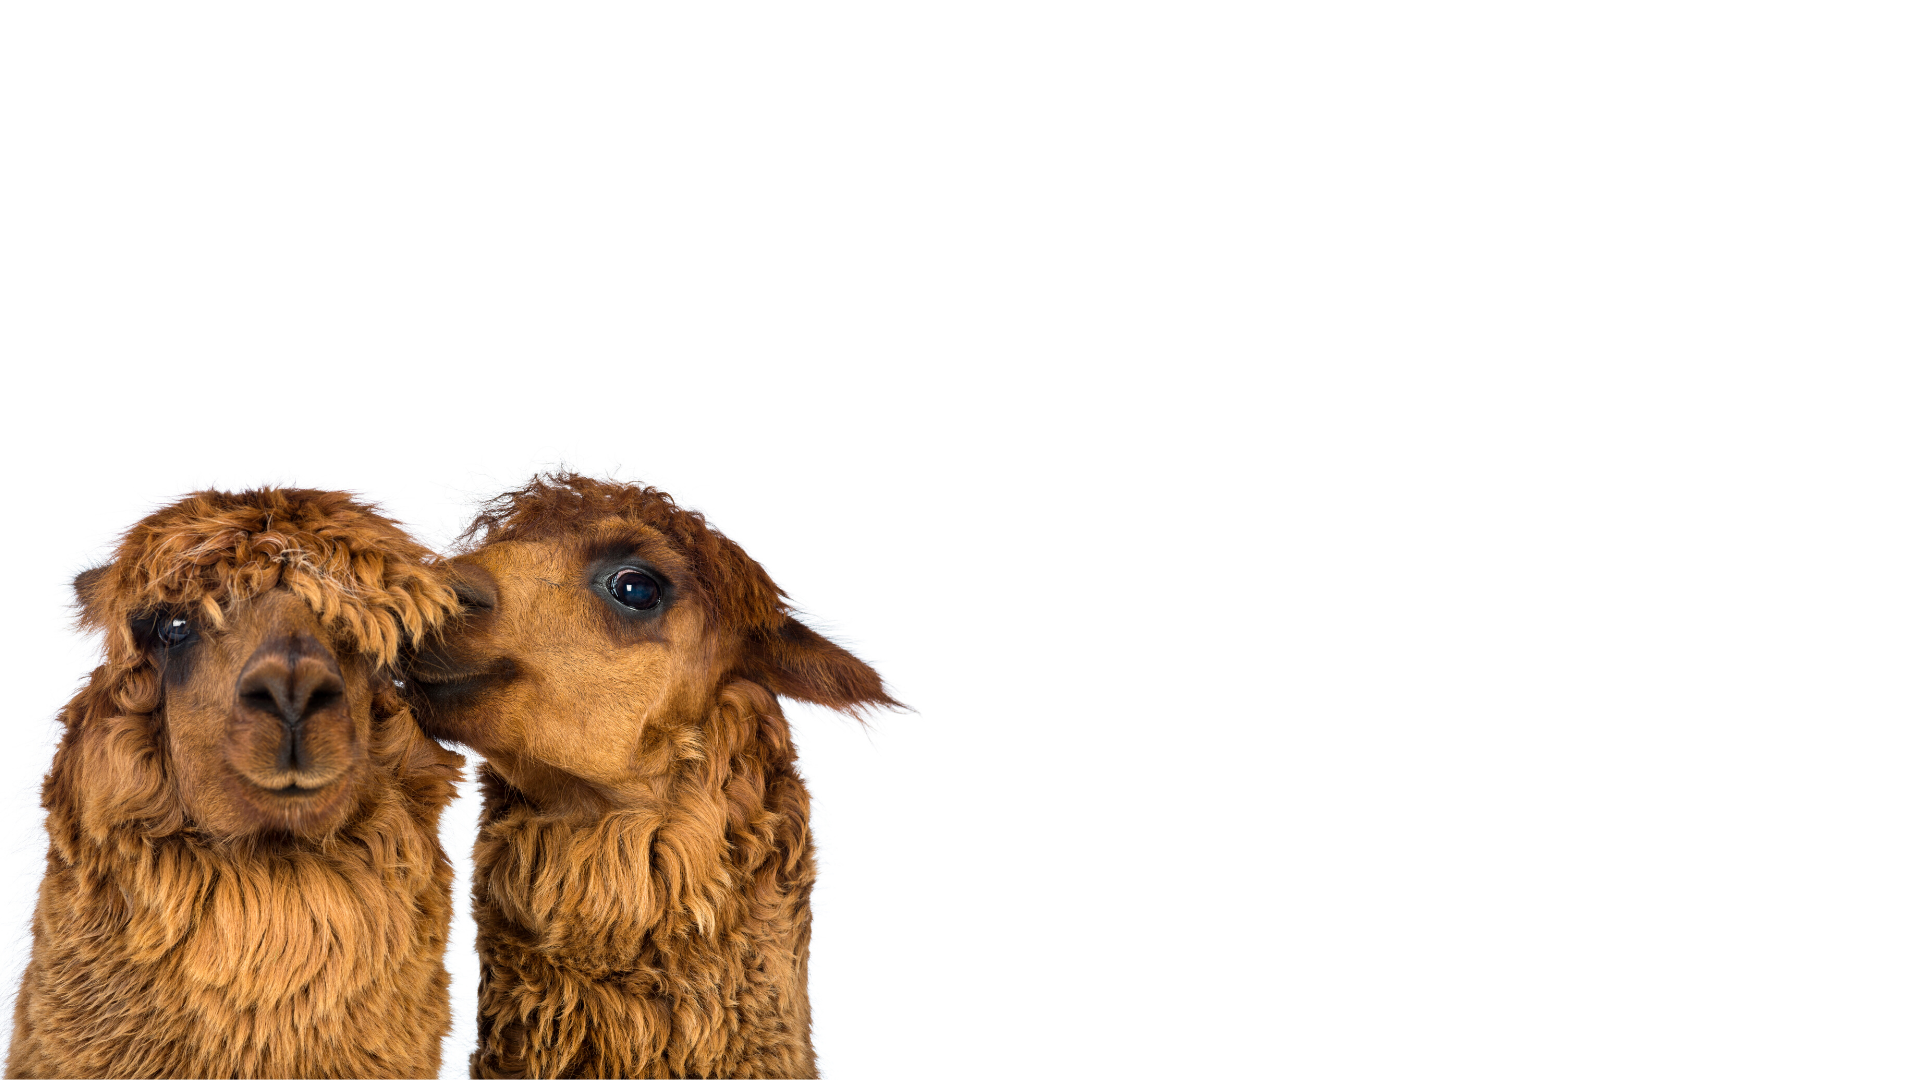
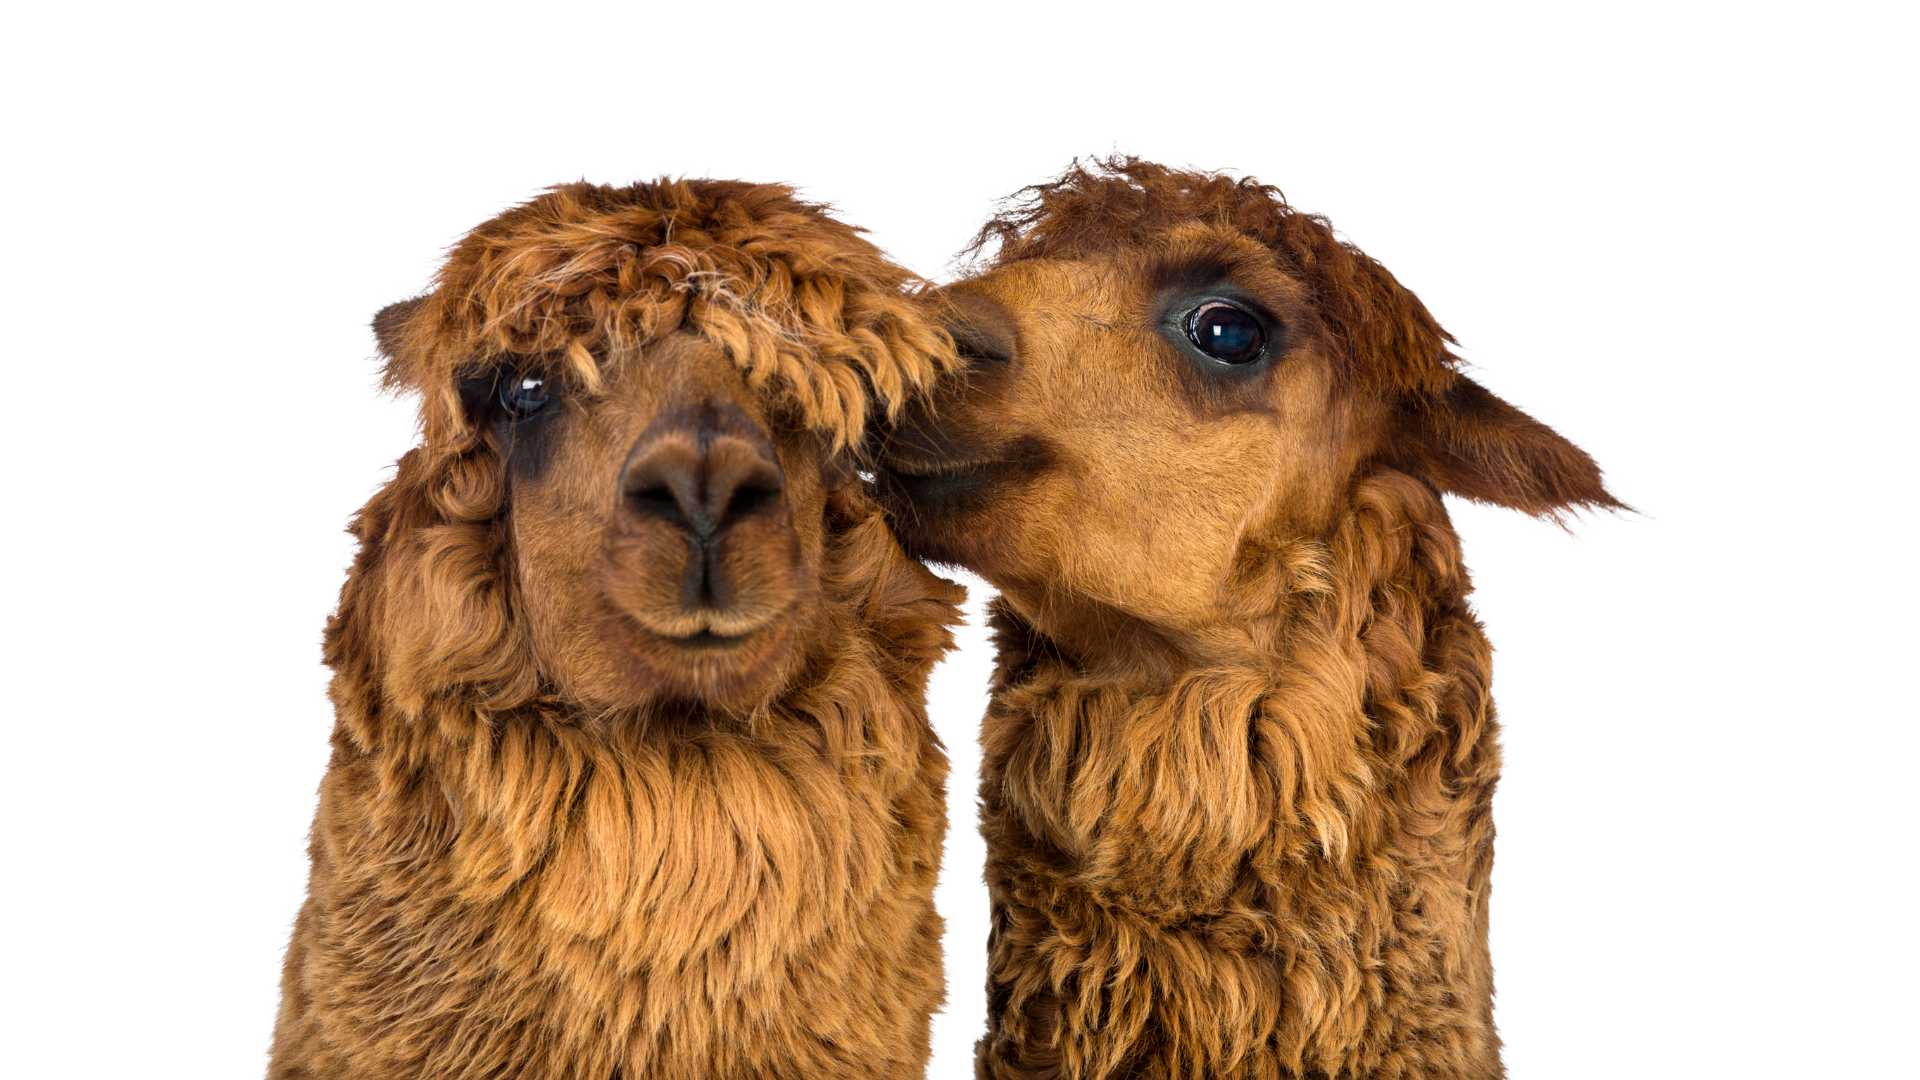
added css and html framework; created basic functionality with click toggling via counters

diff --git a/assets/app.js b/assets/app.js
@@ -1,5 +1,5 @@
 // Create subject array to hold pre-selected button subjects
-var subjectArray = ["puppies", "kittens", "birds"];
+var subjectArray = ["alpacas", "dogs", "cats", "magic", "potatoes", "hogwarts"];
 
 // Create variables for API parameters
 
@@ -7,7 +7,8 @@ var subjectArray = ["puppies", "kittens", "birds"];
 const apiKey = "4xW69sv2q24wSAau2sHmhQGN7YLyBlWi";
 var limit = "10";
 var rating = "g";
-var subject = "magic";
+var subject = "quokka";
+var numberOfClicks = 0;
 
 // Create query URL
 var queryURL = "https://api.giphy.com/v1/gifs/search?api_key=" + apiKey + "&q=" + subject + "&" + limit + "=10&offset=0&rating=" + rating + "&lang=en";
@@ -15,34 +16,54 @@ var queryURL = "https://api.giphy.com/v1/gifs/search?api_key=" + apiKey + "&q=" 
 $.ajax({
   url: queryURL,
   method: "GET"
-}).then(function(response) {
+}).then(function (response) {
   console.log("got data: " + queryURL);
 
-  // Here we define our gif results. We're working with the first ten.
-  gifResults = [
-    response.data[0].images.downsized.url,
-    response.data[2].images.downsized.url,
-    response.data[3].images.downsized.url,
-    response.data[4].images.downsized.url,
-    response.data[5].images.downsized.url,
-    response.data[6].images.downsized.url,
-    response.data[7].images.downsized.url,
-    response.data[8].images.downsized.url,
-    response.data[9].images.downsized.url,
-  ];
+  // Here we define our gif results. We're working with the first ten (i.e., indicies 0 - 9).
+  var gifResults = [
+    response.data[0].images.downsized_still.url,
+    response.data[1].images.downsized_still.url,
+    response.data[2].images.downsized_still.url,
+    response.data[3].images.downsized_still.url,
+    response.data[4].images.downsized_still.url,
+    response.data[5].images.downsized_still.url,
+    response.data[6].images.downsized_still.url,
+    response.data[7].images.downsized_still.url,
+    response.data[8].images.downsized_still.url,
+    response.data[9].images.downsized_still.url,
+  ]
 
-// Loop through the results to display them on the page
+  // Loop through the results to display them on the page
   for (var j = 0; j < gifResults.length; j++) {
 
     // Each result will be saved as an img element
-    gif = "<img src=" + response.data[j].images.downsized.url + " class= 'captured-gif' />";
+    gif = "<img src=" + response.data[j].images.downsized_still.url + " class= 'captured-gif' />";
 
     // We append the img element to the parent div
     $(".gif-div").append(gif);
   }
 
-// If there is an error getting the data, we'll console log the error message
-}).catch(function(err) {
+
+  // Found how to capture clicked element index from stackoverflow:
+  // Source: https://stackoverflow.com/questions/5545283/get-index-of-clicked-element-in-collection-with-jquery
+  $(".captured-gif").on("click", function () {
+
+    
+    numberOfClicks++;
+
+    console.log(numberOfClicks);
+
+    if (numberOfClicks % 2 === 0) {
+      ndexOfClickedGif = $(".captured-gif").index(this);
+      $(this).attr("src", response.data[indexOfClickedGif].images.downsized_still.url)
+    } else {
+      indexOfClickedGif = $(".captured-gif").index(this);
+      $(this).attr("src", response.data[indexOfClickedGif].images.downsized.url);
+    }
+  })
+
+  // If there is an error getting the data, we'll console log the error message
+}).catch(function (err) {
   console.log(err.message);
 });
 
@@ -63,7 +84,7 @@ function createButtons() {
 }
 
 // Here we'll add buttons if the user enters a search parameter
-$("#search-parameters").on("click", function(event) {
+$("#search-parameters").on("click", function (event) {
   event.preventDefault();
   var subject = $("#search-input").val().trim();
   subjectArray.push(subject);

diff --git a/index.html b/index.html
@@ -19,19 +19,12 @@
 <body>
 
   <div class="jumbotron title">
+    <img src="assets/alpaca.png" class="alpaca-img" alt="">
+
     <h1 class="title-text">GIPHY API</h1>
     <p class="title-text">Generate your very own customizable gifs!</p>
   </div>
 
-  <div class="container-fluid input">
-    <div class="search-div">
-      <form id="subject-form">
-        <label for="search-input"> <p>Search for something else:</p></label><br>
-        <input type="text" id="search-input"><br>
-        <button class="btn btn-primary btn-lg" type="submit" name="button" id="search-parameters">Search</button>
-      </form>
-    </div>
-  </div>
 
   <div class="container button-interface">
     <div class="buttons" id="buttons-div">
@@ -39,6 +32,17 @@
     </div>
   </div>
 
+  <div class="container-fluid input">
+    <div class="search-div">
+      <form id="subject-form">
+        <label for="search-input">
+          <p>Search for something else:</p>
+        </label><br>
+        <input type="text" id="search-input"><br>
+        <button class="btn btn-primary btn-lg" type="submit" name="button" id="search-parameters">Search</button>
+      </form>
+    </div>
+  </div>
 
   <div class="gif-div">
 

diff --git a/assets/styles.css b/assets/styles.css
@@ -6,12 +6,19 @@ font-family: 'Harmattan', ; */
 
 h1, h2, h3, h4, h5 {
   font-family: "Kranky";
-  font-size: 5rem;
+  font-size: 6rem;
+}
+
+p.title-text {
+  font-family: "Pompiere";
+  font-size: 2.7rem;
 }
 
 p {
   font-family: "Pompiere";
-  font-size: 2rem;
+  font-size: 1.5rem;
+  margin: 0;
+  padding: 0;
 }
 
 button {
@@ -19,21 +26,23 @@ button {
 }
 
 .title {
+  position: relative;
   text-align: center;
-  background-image: url("alpaca.png");
+  background-image: url("sparkles.png");
   background-size: cover;
   padding: 50px auto;
-  height: 800px;
+}
+
+.alpaca-img {
+  position: absolute;
+  bottom: 0;
+  left: 0;
+  width: 30%;
 }
 
 .title-text {
   padding: 0;
 }
-
-/* #subject-form {
-  border: 1px solid;
-  border-color: green;
-} */
 
 .input {
   text-align: center;
@@ -59,5 +68,11 @@ button {
 .captured-gif {
   border-radius: 10%;
   width: 15%;
-  margin: 2%;
+  margin: 0 2%;
 }
+
+
+
+/* ***************************************
+MEDIA QUERIES
+*************************************** */
